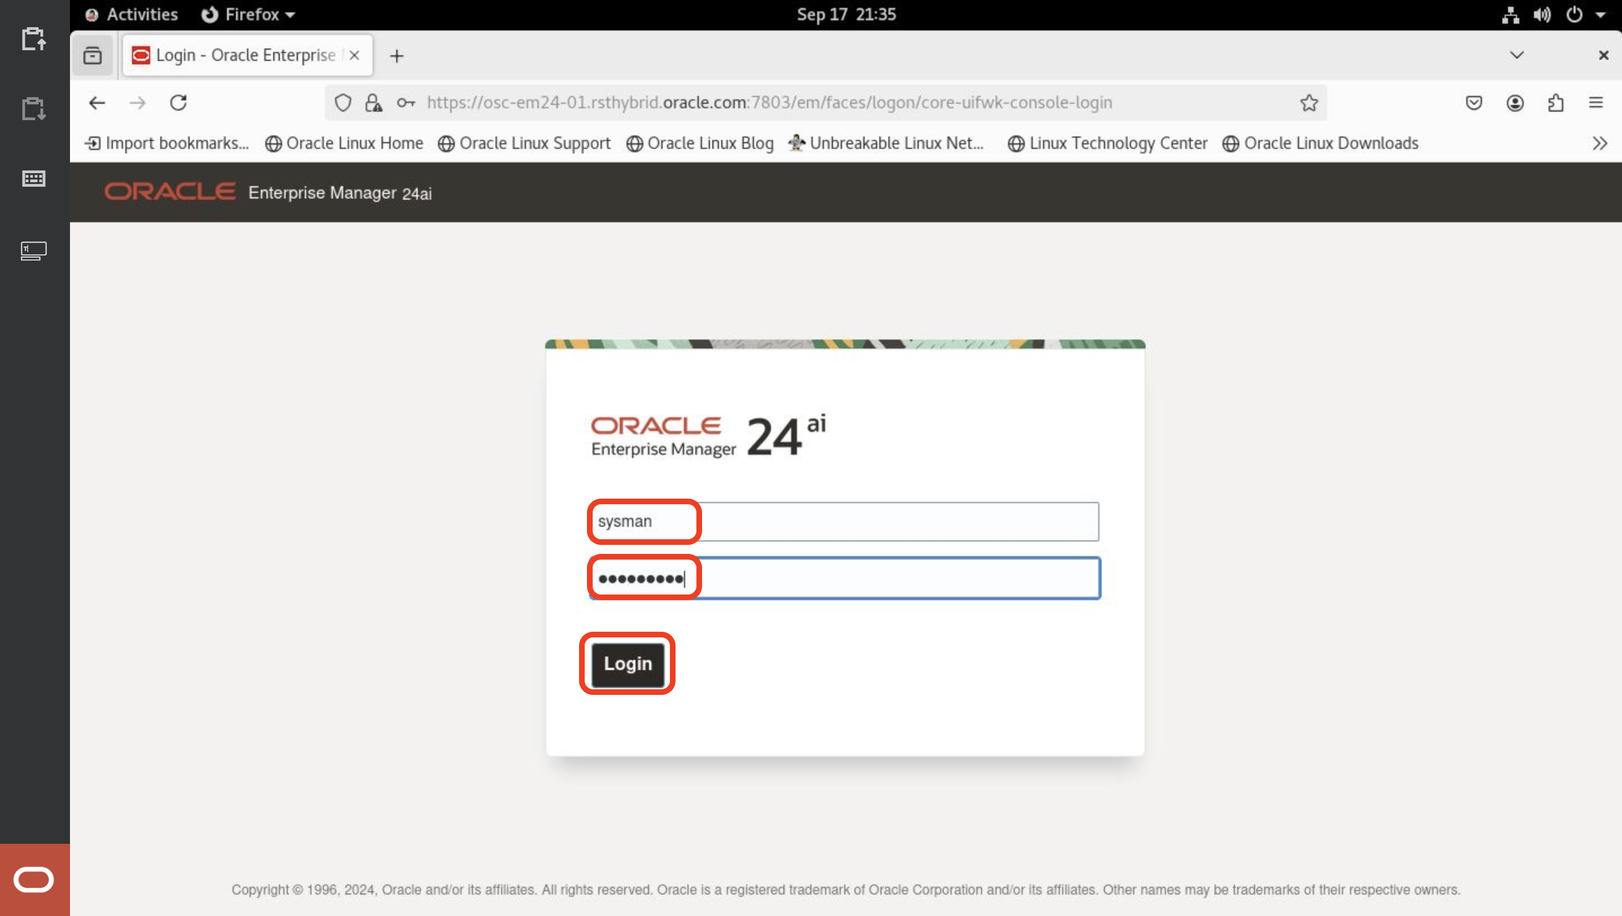
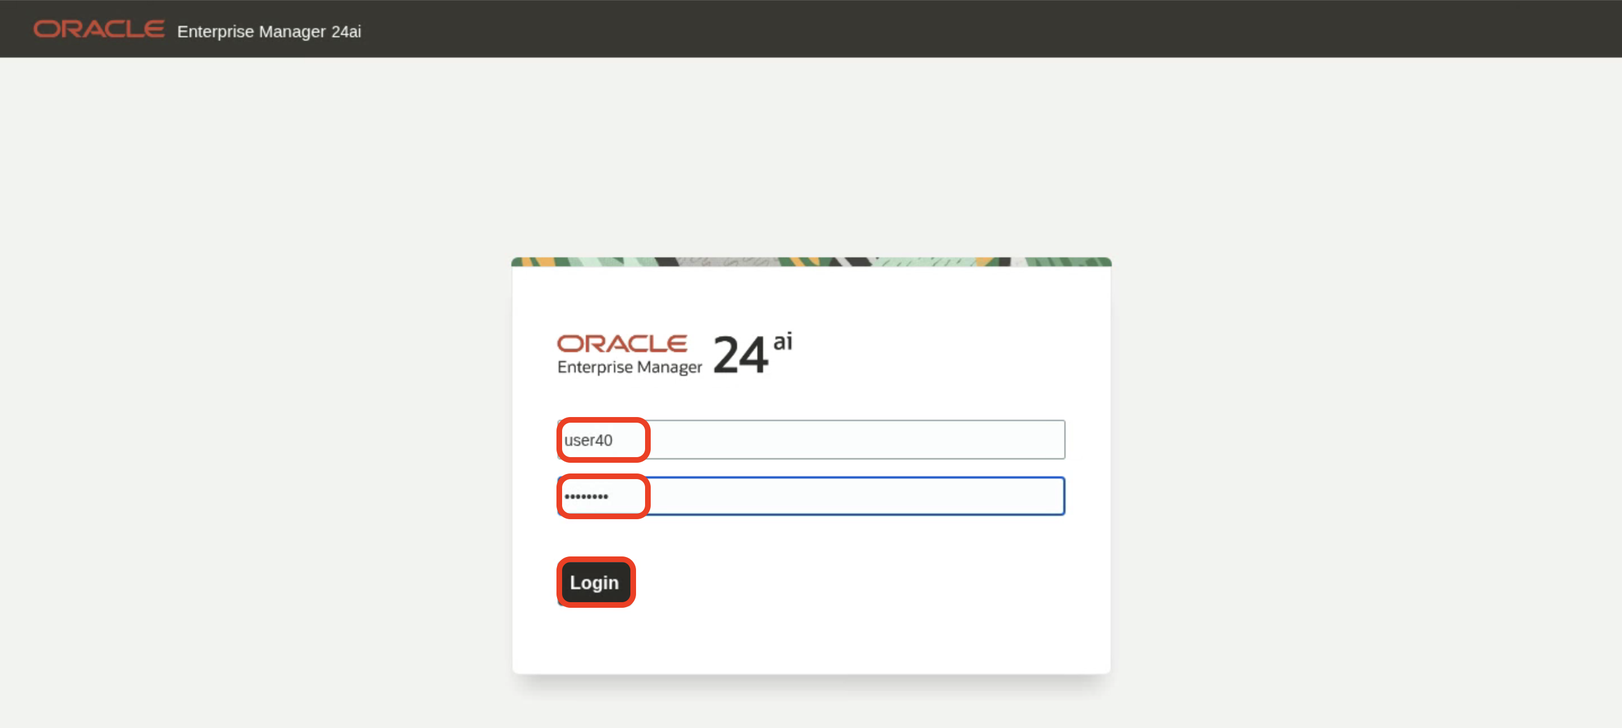
Exadata Management Pack Part11
Exadata Management Pack Part11

diff --git a/enterprise-manager/em24ai/em-exadata-mgmt/fleetdashboards/fleetdashboards.md b/enterprise-manager/em24ai/em-exadata-mgmt/fleetdashboards/fleetdashboards.md
@@ -3,17 +3,22 @@
 Exadata Fleet Dashboards provide a unified, high-level view of resource usage, capacity, and performance across an entire fleet of Exadata systems. They enable administrators to quickly identify systems that need attention, analyze component-level usage, and track metric trends, supporting proactive management of both on-premises and cloud-based Exadata and Recovery Appliance environments.
 
 ### Objectives
-To enable users to efficiently navigate and utilize the Exadata Fleet Configuration Dashboards within Oracle Enterprise Manager, they can
+To enable users to efficiently navigate and utilize the Exadata Fleet Dashboards within Oracle Enterprise Manager
 - Gain a high-level overview of resource usage across the fleet
 - Identify Exadata systems that require attention
-- Analyze usage of individual components within an Exadata system (by consulting the Exadata Fleet Component Capacity dashboard)
+- Analyze usage of individual components within an Exadata system
 - Review and analyze metric trends
+
+*Estimated Time*: 20 minutes
 
 ## Task 1: Explore Fleet Configuration Dashboard
 
 Exadata Fleet Configuration dashboard shows the Exadata hardware and software configurations across the Exadata and Recovery Appliance fleet, based on the last known metric collection. You can apply the filters to limit the display to a subset of systems.
 
-1. Log into Enterprise Manager using the credentials **sysman/Cloud2025**. 
+1. Log into Enterprise Manager using the credentials provided in the portal
+
+    ![Enterprise Manager credentials](images/emcreds.png " ")
+
 
     ![Enterprise Manager login](images/enterprisemanagerlogin.png " ")
 
@@ -37,30 +42,70 @@ Exadata Fleet Configuration dashboard shows the Exadata hardware and software co
 
     ![Exadata Fleet Configuration Filters](images/efcfilters.png " ")
 
-    Exadata Fleet Configuration dashboard provides a structured way to view and analyze the configuration of your Engineered System fleet. It is divided into four vertical sections:
+    Let’s **close the filter panel** for now by clicking on the icon as shown below.
+
+    ![Exadata Fleet Configuration Filters](images/efcfilters2.png " ")
+
+
+
+    **Exadata Fleet Configuration dashboard** provides a structured way to view and analyze the configuration of your Engineered System fleet. It is divided into four vertical sections:
     
     - **Overview:** Provides a high-level summary of your Engineered System fleet. It displays ring charts showing the distribution by system type, deployment type, service type, database deployment option, and fabric type. This helps quickly identify how systems are deployed and configured across environments.
+        
+        *Note: Service type widget shows no data because we don’t have any cloud service types, such as Autonomous Database or Exadata Database Service, in this environment.*
 
-        ![Exadata Fleet Configuration Overview](images/efc-overview.png " ")
+        ![Exadata Fleet Configuration Overview](images/efc-overview1.png " ")
+
+        **Note: Scroll down to view other two widgets**
+        ![Exadata Fleet Configuration Overview](images/efc-overview2.png " ")
 
     - **Hardware:** Shows the physical characteristics of the fleet. Ring charts display Exadata generations, server models, storage types, and switch models. This helps assess hardware diversity and standardization.
 
-        ![Exadata Fleet Configuration Hardware](images/efc-hardware.png " ")
+        ![Exadata Fleet Configuration Hardware](images/efc-hardware1.png " ")
+
+        **Note: Scroll down to view other two widgets**
+        ![Exadata Fleet Configuration Hardware](images/efc-hardware2.png " ")
+
 
     - **Software:** Summarizes the software landscape across components. It shows distributions of OS versions, ILOM versions, Exadata software versions, and switch firmware versions. This helps track consistency and upgrade needs.
 
-        ![Exadata Fleet Configuration Hardware](images/efc-software.png " ")
+        ![Exadata Fleet Configuration Software](images/efc-software1.png " ")
+
+        **Note: Scroll down to view other two widgets**
+        ![Exadata Fleet Configuration Software](images/efc-software2.png " ")
 
     - **Database:** Provides insights into deployed databases. It shows CDB vs. Non-CDB usage, database and PDB versions, ASM redundancy levels, and Grid Infrastructure versions. This helps monitor database standardization and lifecycle status.
 
-        ![Exadata Fleet Configuration Hardware](images/efc-database.png " ")
+        ![Exadata Fleet Configuration Database](images/efc-database1.png " ")
+        **Note: Scroll down to view other two widgets**
+        ![Exadata Fleet Configuration Database](images/efc-database2.png " ")
 
 
-6. Apply the "Target Property: Department" Filter by selecting **HR** department
+6. Identify the targets that have a specific hardware model of the Exadata Storage Server
 
+    Go to the widget **Storage Server Model** under **Hardware**
+    ![Exadata Storage Server Model](images/analyzecharts1.png " ")
+
+    Now, click on the number within the doughnut chart to view targets with all the storage server models and then click **Close**. 
+    ![Exadata Storage Server Model](images/analyzecharts2.png " ")
+    ![Exadata Storage Server Model](images/analyzecharts3.png " ")
+
+    Now if you want to find the list of specific hardware model click on the colored slice. 
+    
+    Here in this example we want to list **Storage Server Model: ORACLE SERVER X8-2L High Capacity** so click on the slice as shown below and then click **Close**. 
+
+    ![Exadata Storage Server Model](images/analyzecharts4.png " ")
+    ![Exadata Storage Server Model](images/analyzecharts5.png " ")
+
+7. Apply the "Target Property: Department" Filter by selecting **HR** department
+
+    Click on the **filter icon** to open the filter panel as shown below
+    ![Exadata Fleet Configuration Filter Open](images/openfilter.png " ")
+
+    Apply the **filter** as shown below
     ![Exadata Fleet Configuration Filter](images/filterbydepthr.png " ")
 
-7. Analyze the filtered results 
+8. Analyze the filtered results 
 
     HR department operates one X6 generation Exadata system on-premises, running Database Server OS version 8.10 with InfiniBand connectivity and a multitenant database on DB version 19.24.
 
@@ -68,7 +113,10 @@ Exadata Fleet Configuration dashboard shows the Exadata hardware and software co
 
 ## Task 2: Explore Fleet Aggregated Capacity Dashboard
 
-Exadata Fleet Configuration dashboard shows the Exadata hardware and software configurations across the Exadata and Recovery Appliance fleet, based on the last known metric collection. You can apply the filters to limit the display to a subset of systems.
+Exadata Fleet Aggregated Capacity dashboard summarizes the capacity averaged over the last 31 days for the Exadata and Recovery Appliance fleet or filtered subset of the fleet. You can apply the filters to limit the display to a subset of systems.
+
+This dashboard provides an aggregated capacity overview across the fleet and helps determine whether there is room for new databases or if consolidation is needed to maintain optimal utilization across the fleet by correlating the charts.
+
 
 1. Click on  **Dashboards**.
 
@@ -84,13 +132,18 @@ Exadata Fleet Configuration dashboard shows the Exadata hardware and software co
 
     ![Exadata Fleet Aggregated Capacity Filters](images/efac-filters.png " ")
 
-    Exadata Fleet Aggregated Capacity dashboard summarizes the capacity averaged over the last 31 days for the Exadata and Recovery Appliance fleet or filtered subset of the fleet. It provides a high level summary of fleet resource usage indicating overall average utilization. This dashboard is organized into two sections.
+    Let’s **close the filter panel** for now by clicking on the icon as shown below.
+
+    ![Exadata Fleet Configuration Filters](images/efac-filters2.png " ")
+
+
+    **Exadata Fleet Aggregated Capacity dashboard** summarizes the capacity averaged over the last 31 days for the Exadata and Recovery Appliance fleet or filtered subset of the fleet. It provides a high level summary of fleet resource usage indicating overall average utilization. This dashboard is organized into two sections.
     
     - **Database Server CPU and Memory, and Storage:** The CPU, memory, and storage charts summarize 31 day resource allocation and trends across the Engineered System fleet to highlight usage patterns and potential anomalies.
 
         ![Exadata Fleet Aggregated Capacity - DB Server CPU, Memory & Storage](images/efac-cpumemorystorage.png " ")
 
-    - **Storage Server I/O:** Provides line charts with aligned timelines to correlate key storage server performance metrics such as latency, throughput, IOPS, I/O load, and utilization—helping diagnose performance issues by viewing related values together.
+    - **Storage Server I/O:** Provides line charts with aligned timelines to correlate key storage server performance metrics such as latency, throughput, IOPS, I/O load, and utilization to help in diagnosing performance issues by viewing related values together.
 
         ![Exadata Fleet Aggregated Capacity - Storage I/O](images/efac-storageio.png " ")
         ![Exadata Fleet Aggregated Capacity - Storage I/O](images/efac-storageiox.png " ")
@@ -113,11 +166,20 @@ Exadata Fleet Capacity dashboard shows individual Exadata capacity averaged over
 
     ![Exadata Fleet Capacity Filters](images/efc-filters.png " ")
 
-    Exadata Fleet Capacity dashboard includes multiple sections that provides detailed insights into specific dimensions of fleet resource capacity like host utilization, storage utilization, I/O performance, CPU, memory, disk usage, and IOPS (input/output operations per second).Detailed descriptions for each section are provided below:
+    Let’s **close the filter panel** for now by clicking on the icon as shown below.
+    ![Exadata Fleet Capacity Filters](images/efc-filters2.png " ")
+
+
+    **Exadata Fleet Capacity dashboard** includes multiple sections that provides detailed insights into specific dimensions of fleet resource capacity like host utilization, storage utilization, I/O performance, CPU, memory, disk usage, and IOPS.
+    
+    Detailed descriptions for each section are provided below:
     
     - **Database Server CPU and Memory:** Host Utilization bubble chart in this section visualizes the average utilization of CPU and memory across all hosts (database servers) in an Engineered Systems over the past month.
 
         ![Exadata Fleet Capacity - Host Utilization](images/efc-hostutil.png " ")
+
+        Hovering over the bubble provides additional information
+        ![Exadata Fleet Capacity - Host Utilization](images/efc-hostutil2.png " ")
 
     - **Storage:** Provides an overview of the storage utilization through four scatter plots, offering insights into disk space usage and growth.
 
@@ -163,11 +225,33 @@ Exadata Fleet Component Capacity dashboard provides a holistic view of fleet cap
 
     ![Exadata Fleet Component Capacity Filters](images/efcc-filters.png " ")
 
-    Exadata Fleet Component Capacity dashboard includes multiple sections that provides detailed insights into specific dimensions of component capacity like host utilization, storage utilization, I/O performance, CPU, memory, disk usage, and IOPS (input/output operations per second).Detailed descriptions for each section are provided below:
+    Let’s **close the filter panel** for now by clicking on the icon as shown below.
+    ![Exadata Fleet Component Capacity Filters](images/efcc-filters2.png " ")
+
+
+    **Exadata Fleet Component Capacity dashboard** includes multiple sections that provides detailed insights into specific dimensions of component capacity like host utilization, storage utilization, I/O performance, CPU, memory, disk usage, and IOPS (input/output operations per second).
+    
+    Detailed descriptions for each section are provided below:
     
     - **Database Server CPU and Memory:** Host Utilization bubble chart in this section visualizes the average utilization of CPU and memory of each host in an Engineered Systems over the past month.
 
         ![Exadata Fleet Component Capacity - Host Utilization](images/efcc-hostutlization.png " ")
+
+        **Tips: Use the following visual features in the bubble charts to analyze the data**
+
+        - Hovering over the bubble provides additional information
+        ![Exadata Fleet Component Capacity - Host Utilization](images/efcc-hostutlization2.png " ")
+
+        - When the bubbles overlap, you can zoom in to distinguish individual bubbles
+
+            Click on the **lens icon** as shown below
+            ![Exadata Fleet Component Capacity - Host Utilization](images/efcc-hostutlization3.png " ")
+
+            Select the area to **zoom in**
+            ![Exadata Fleet Component Capacity - Host Utilization](images/efcc-hostutlization4.png " ")
+
+            Area is now zoomed in and allows to view individual bubbles
+            ![Exadata Fleet Component Capacity - Host Utilization](images/efcc-hostutlization5.png " ")
 
     - **Storage:** Provides an overview of the storage utilization through four scatter plots, offering insights into disk space usage and growth.
 
@@ -175,14 +259,18 @@ Exadata Fleet Component Capacity dashboard provides a holistic view of fleet cap
 
         ![Exadata Fleet Component Capacity - Storage Utilization](images/efcc-storagey.png " ")
 
-    - **Storage Sever I/O:** Provides an overview of the various performance metrics related to I/O serviced by flash and hard disks of all Engineered System storage servers. Each chart provides insights into different aspects of latency, utilization, IOPS, and throughput. Each bubble represents a storage server in the Engineered System fleet. The size of the bubble is proportional to the storage capacity of the storage server.
+    - **Storage Sever I/O:** Provides an overview of the various performance metrics related to I/O serviced by flash and hard disks of all Engineered System storage servers. Each chart provides insights into different aspects of latency, utilization, IOPS, and throughput. Each bubble represents a storage server in the Engineered System fleet. 
+    
+        The **size of the bubble is proportional to the storage capacity of the storage server**.
 
         ![Exadata Fleet Component Capacity - Storage I/O](images/efcc-storageio.png " ")
         ![Exadata Fleet Component Capacity - Storage I/O](images/efcc-storageiox.png " ")
         ![Exadata Fleet Component Capacity - Storage I/O](images/efcc-storageioy.png " ")
 
 
-    - **Database Server CPU and Memory Details:** Summarizes CPU and memory utilization of hosts in the Engineered System fleet. This table allows comparison of CPU and memory usage across different hosts, aiding in the identification of systems that may require resource reallocation or optimization. The visual representation of utilization percentages makes it easy to spot potential bottlenecks or under-utilized resources at an individual host level.
+    - **Database Server CPU and Memory Details:** Summarizes CPU and memory utilization of hosts in the Engineered System fleet. This table allows comparison of CPU and memory usage across different hosts, aiding in the identification of systems that may require resource reallocation or optimization.
+    
+        The visual representation of utilization percentages makes it easy to spot potential bottlenecks or under-utilized resources at an individual host level.
 
         ![Exadata Fleet Component Capacity - DB Server Details](images/efcc-databasedetails.png " ")
 

diff --git a/enterprise-manager/em24ai/em-exadata-mgmt/intro/intro-exdata-mgmt-overview.md b/enterprise-manager/em24ai/em-exadata-mgmt/intro/intro-exdata-mgmt-overview.md
@@ -1,7 +1,7 @@
 ## About this Workshop
 The goal of this workshop is to become familiar with Exadata Management Pack's advanced management and monitoring features for engineered systems using Oracle Enterprise Manager 24ai.
 
-*Estimated Workshop Time*: 70 minutes
+*Estimated Workshop Time*: 95 minutes
 
 ### About Oracle Enterprise Manager 24ai
 Oracle Enterprise Manager 24ai is Oracle’s on-premise management platform that provides a single dashboard to manage all of your Oracle deployments, in your data center or in the cloud. Through deep integration with Oracle’s product stack, it provides market-leading management and automation support for Oracle applications, databases, middleware, hardware, and engineered systems
@@ -37,11 +37,11 @@ Exadata administrators managing large on-premises and cloud-based Exadata fleets
 
   | **Step No.** | **Feature**                                   | **Approx. Time** | **Details**                                                                                                                                                                                                                    | **Value proposition**                                                                                                                                                                                                                                                                                                                                                                                                                                                                                                                                                      |
   |--------|-----------------------------------------------|------------------|--------------------------------------------------------------------------------------------------------------------------------------------------------------------------------------------------------------------------------|-----------------------------------------------------------------------------------------------------------------------------------------------------------------------------------------------------------------------------------------------------------------------------------------------------------------------------------------------------------------------------------------------------------------------------------------------------------------------------------------------------------------------------------------------------------------------------|
-  | **1**  | Exadata Fleet Dashboards                              | 15 minutes       | Explore Oracle-defined dashboards that distill Exadata component hardware and software metric data for individual Exadata (on-premises and Cloud-based) and Recovery Appliance systems into integrated, detailed fleet-level visualizations.                         | Get a high-level overview of resource usage across the fleet, Identify which Exadata systems need attention, Analyze usage for components within an Exadata system, Analyze metric trends                                                                                                                                                                                                                                             |
-  | **2**  | Database Impact Advisor                                | 15 minutes       | Learn how to use Database Impact Advisor to identify noisy-nieghbors                                                                                                                                              | Database Impact Advisor can be run against an individual Exadata system to perform system-wide database CPU usage noisy-neighbor analysis in order to identify databases whose performance is potentially impacted by other databases or other operating system processes.                                                                                                                                                                                                                                                                                                  |
-  **3**  | Chargeback Administration                             | 15 minutes       | Explore how chargeback helps to allocate and track costs of IT resources.                                                 | Enterprise Manager Chargeback enables transparent accountability by metering resource usage, assigning costs, and providing detailed consumption reports to IT and resource consumers.                                                                                                                                          
+  | **1**  | Exadata Fleet Dashboards                              | 20 minutes       | Explore Oracle-defined dashboards that distill Exadata component hardware and software metric data for individual Exadata (on-premises and Cloud-based) and Recovery Appliance systems into integrated, detailed fleet-level visualizations.                         | Get a high-level overview of resource usage across the fleet, Identify which Exadata systems need attention, Analyze usage for components within an Exadata system, Analyze metric trends                                                                                                                                                                                                                                             |
+  | **2**  | Database Impact Advisor                                | 25 minutes       | Learn how to use Database Impact Advisor to identify noisy-nieghbors                                                                                                                                              | Database Impact Advisor can be run against an individual Exadata system to perform system-wide database CPU usage noisy-neighbor analysis in order to identify databases whose performance is potentially impacted by other databases or other operating system processes.                                                                                                                                                                                                                                                                                                  |
+  **3**  | Chargeback Administration                             | 20 minutes       | Explore how chargeback helps to allocate and track costs of IT resources.                                                 | Enterprise Manager Chargeback enables transparent accountability by metering resource usage, assigning costs, and providing detailed consumption reports to IT and resource consumers.                                                                                                                                          
   | **4**  | I/O Resource Management Advisor                         | 15 minutes       | Explore Enterprise Manager I/O Resource Management Advisor to analyze Exadata I/O utilization.                                                                                                           | I/O Resource Management Advisor delivers actionable insights to optimize Exadata system performance by analyzing I/O utilization, identifying bandwidth needs, and managing resource consumption effectively                                                                                                                                                                                                                                                                                                                                 |
-  | **5**  | Engineered System Autonomous Health Framework Administration                          | 10 minutes       | Explore how to monitor and manage Oracle Autonomous Health Framework and Oracle Exachk across the Engineered System fleet. | Engineered System AHF Administration empowers Exadata and Recovery Appliance administrators to centrally monitor, manage, and automate AHF and Exachk operations across the fleet, ensuring compliance, minimizing downtime, and maximizing performance..                                                                                                                                                                                                                                                                                                                                                                                                                                                      |
+  | **5**  | Engineered System Autonomous Health Framework Administration                          | 15 minutes       | Explore how to monitor and manage Oracle Autonomous Health Framework and Oracle Exachk across the Engineered System fleet. | Engineered System AHF Administration empowers Exadata and Recovery Appliance administrators to centrally monitor, manage, and automate AHF and Exachk operations across the fleet, ensuring compliance, minimizing downtime, and maximizing performance..                                                                                                                                                                                                                                                                                                                                                                                                                                                      |
 
 ## Learn More
 - [Advanced Management and Monitoring with Exadata Management Pack](https://docs.oracle.com/en/enterprise-manager/cloud-control/enterprise-manager-cloud-control/24.1/emxad/exadata-management-pack-features.html)
